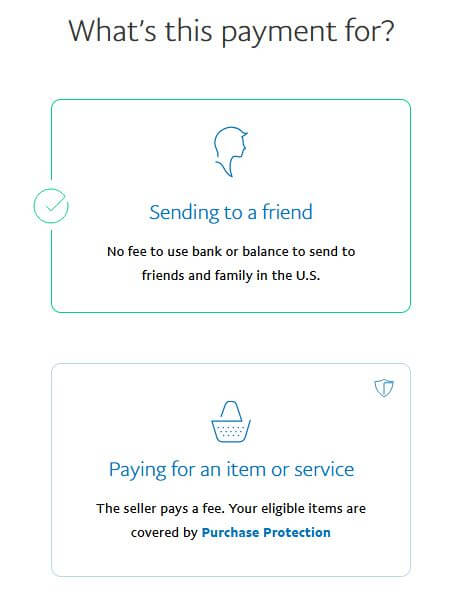
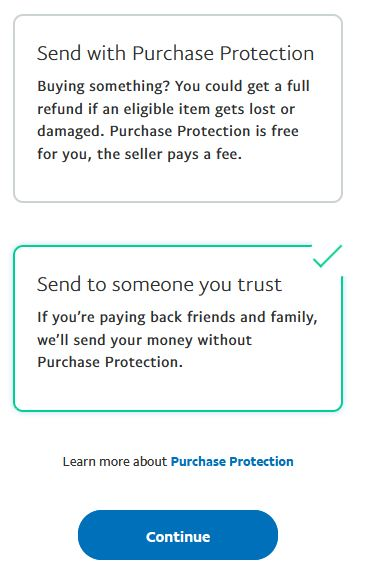
Paypal

Changed region(s): [[0.0295, 0.0, 0.9437, 0.9912]]

diff --git a/payments.html b/payments.html
@@ -110,10 +110,10 @@
         <div class="row">
           <div class="col-xl-9 col-lg-10 mx-auto">
             <div class="bg-faded rounded p-5">    
-              <img class="img-fluid rounded" src="img/paypal_step1.JPG" alt="">
+              <img class="img-fluid rounded" src="img/paypal.JPG" alt="">
               <br/>
               <br/>         
-              Click on the Send and Request link
+              Go to <a href="https://www.paypal.com/paypalme/fcvfcevent">https://www.paypal.com/paypalme/fcvfcevent</a> and Click on Send
             </div>
           </div>
         </div>
@@ -122,15 +122,15 @@
   </section>
 
   <section class="page-section about-heading">
-    <div class="container">      
+    <div class="container">
       <div class="about-heading-content">
         <div class="row">
           <div class="col-xl-9 col-lg-10 mx-auto">
-            <div class="bg-faded rounded p-5">             
-              <img class="img-fluid rounded" src="img/paypal_step2.JPG" alt="">
+            <div class="bg-faded rounded p-5">    
+              <img class="img-fluid rounded" src="img/paypal_login.JPG" alt="">
               <br/>
-              <br/>
-             Enter <b>event@fordclifffire.org</b>
+              <br/>         
+              Login with your paypal account or sign up for a new one
             </div>
           </div>
         </div>
@@ -165,7 +165,7 @@
               <img class="img-fluid rounded" src="img/paypal_step4.JPG" alt="">
               <br/>
               <br/>          
-              Pick the sending to a friend option               
+              Pick the sending to someone you trust option             
             </div>
           </div>
         </div>
